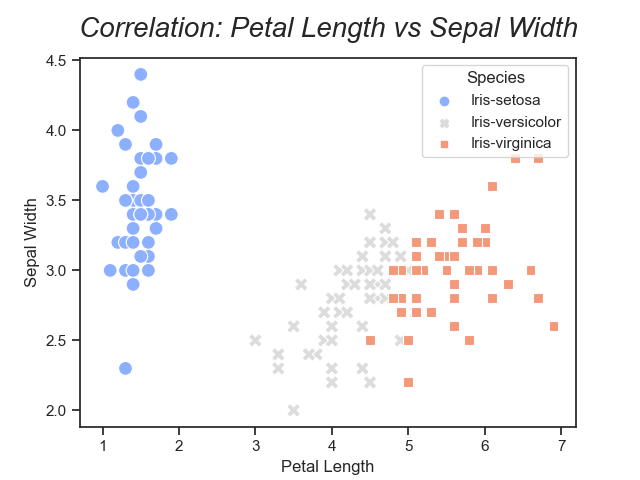
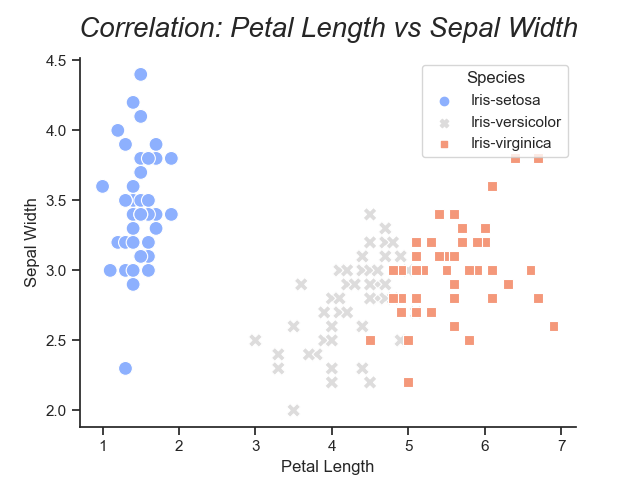
fixes to plot functions

Changed region(s): [[0.125, 0.0938, 0.9062, 0.125]]

diff --git a/dataSummary.py b/dataSummary.py
@@ -242,8 +242,6 @@ def outliers():
         f.write("\n {}: {}".format(varNames[2], slOutlierText))
         f.write("\n {}: {}".format(varNames[3], pwOutlierText))
 
-outliers ()
-
     
 def boxplots ():
     sns.set(style = "whitegrid")
@@ -363,12 +361,13 @@ def histograms():
 
 histograms()
 
-def normalitytest():
+def normalitytest(df, t):
 
-    swNumpy = irisDataSet["Sepal Width"].to_numpy()
-    pwNumpy = irisDataSet["Petal Width"].to_numpy()
-    slNumpy = irisDataSet["Sepal Length"].to_numpy()
-    plNumpy = irisDataSet["Petal Length"].to_numpy()
+    #Converting data to numpy array for normality calculation
+    swNumpy = df["Sepal Width"].to_numpy()
+    pwNumpy = df["Petal Width"].to_numpy()
+    slNumpy = df["Sepal Length"].to_numpy()
+    plNumpy = df["Petal Length"].to_numpy()
 
     varList = [swNumpy,pwNumpy, slNumpy, plNumpy]
     normalDist = []
@@ -389,11 +388,11 @@ def normalitytest():
         with open ("IrisDataSummary.txt", "a") as f:
             f.write("\n")
             f.write("\n")
-            f.write("=" * 40)
+            f.write("=" * 60)
             f.write("\n")
-            f.write("Data Distribution")
+            f.write("\t Data Distribution : {}".format(t))
             f.write("\n")
-            f.write("=" * 40)
+            f.write("=" * 60)
             for key,value in pValuesVars.items():
                 if value > 0.05:
                     f.write("\n {}: normally distributed (p = {})".format(key,round(value,2)))
@@ -402,7 +401,10 @@ def normalitytest():
     
     update_file()
 
-normalitytest()
+normalitytest(irisDataSet, t = "Overall")
+normalitytest(versicolor, t = "Versicolor")
+normalitytest(virginica, t = "Virginica")
+normalitytest(setosa, t = "Setosa")
 
 def kde_plots (a,t):
     kdeplot = sns.kdeplot (data = irisDataSet, x = a, palette="Paired",hue = "Species", fill = True)
@@ -417,43 +419,29 @@ kde_plots (irisDataSet["Petal Width"], t = "Petal Width KDE")
 
 
 def correlation ():
-    def correlationMap (x):
+    def correlationMap (x, t, s):
         plt.figure()
-        corMap = sns.heatmap(x, annot = True, cmap = "mako")
-        plt.tight_layout()
         ax = plt.axes()
+        corMap = sns.heatmap(x, annot = True, cmap = "mako")
+        ax.set_title ("{}".format(t))
         ax.set_yticklabels(labels = corMap.get_yticklabels(), fontsize = "10", va = "center")
+        plt.tight_layout()
+        plt.savefig("{}".format(s))
+        plt.close()
   
 
-    overallCorrMap = correlationMap(irisDataSet.corr(method = "pearson"))
-    ax = plt.axes()
-    title = ax.set_title("Correlation Between Numerical Variables - All Species")
-    plt.savefig("{} corr.png".format("overall"))
-    plt.close()
-  
-    versicolorCorrMap = correlationMap(versicolor.corr(method = "pearson"))
-    ax = plt.axes()
-    title= ax.set_title("Correlation Between Numerical Variables - Versicolor")
-    plt.savefig("{} corr.png".format("versicolor"))
-    plt.close()
+    overallCorrMap = correlationMap(irisDataSet.corr(method = "pearson"), t = "Correlation Map - All Species", s = "overall")
+    versicolorCorrMap = correlationMap(versicolor.corr(method = "pearson"), t = "Correlation Map - Versicolor", s = "versicolor")
+    virginicaCorrMap = correlationMap(virginica.corr(method = "pearson"), t = "Correlation Map - Virginica", s = "virginica" )
+    setosaCorrMap = correlationMap(setosa.corr(method = "pearson"), t = "Correlation Map - Setosa", s = "setosa" )
 
-    virginicaCorrMap = correlationMap(virginica.corr(method = "pearson"))
-    ax = plt.axes()
-    title = ax.set_title("Correlation Between Numerical Variables - Virginica")
-    plt.savefig("{} corr.png".format("virginica"))
-    plt.close()
-
-    setosaCorrMap = correlationMap(setosa.corr(method = "pearson"))
-    ax = plt.axes()
-    title = ax.set_title("Correlation Between Numerical Variables - Setosa")
-    plt.savefig("{} corr.png".format("setosa"))
-    plt.close()
 
 correlation()
 
 def scatterplots (a,b,x, t):
     scatterPlot = sns.scatterplot(data = irisDataSet, x=a, y=b, hue = "Species", style = "Species", s = 100, palette = "coolwarm")
     scatterPlot.set_title("{}".format(t), fontsize = 20, pad = 20, va = "center", fontstyle = "oblique")
+    sns.despine ()
     plt.savefig("{}.png".format(x))
     #plt.show ()
     plt.close ()

diff --git a/test.py b/test.py
@@ -36,22 +36,26 @@ def histograms():
     plt.close ()
 
     slh = sns.histplot(irisDataSet, x = "Sepal Length", element = "step", palette = "BuPu", hue = "Species")
+    sns.despine ()
     slh.set_title("Sepal Length Distribution by Species", fontsize = 20, pad = 20, va = "center", fontstyle = "oblique")
     plt.savefig("Sepal length.png")
     plt.close ()
     
     swh = sns.histplot(irisDataSet, x = "Sepal Width", element = "step", palette = "BuPu", hue = "Species")
+    sns.despine ()
     swh.set_title("Sepal Width Distribution by Species", fontsize = 20, pad = 20, va = "center", fontstyle = "oblique")
     plt.savefig("Sepal Width.png")
     plt.close ()
 
 
     plh = sns.histplot(irisDataSet, x = "Petal Length", element = "step", palette = "BuPu", hue = "Species")
+    sns.despine ()
     plh.set_title("Petal Length Distribution by Species", fontsize = 20, pad = 20, va = "center", fontstyle = "oblique")
     plt.savefig("Petal Length.png")
     plt.close()
 
     pwh = sns.histplot(irisDataSet, x = "Petal Width", element = "step", palette = "BuPu", hue = "Species")
+    sns.despine()
     pwh.set_title("Petal Width Distribution by Species", fontsize = 20, pad = 20, va = "center", fontstyle = "oblique")
     plt.savefig("Petal Width.png")
     plt.close ()
